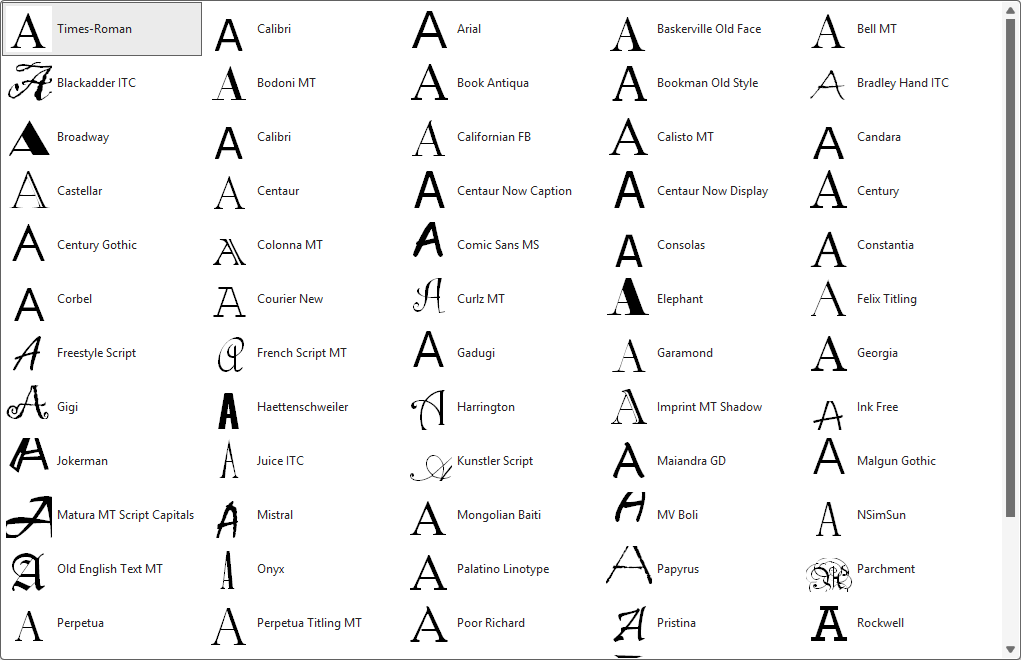
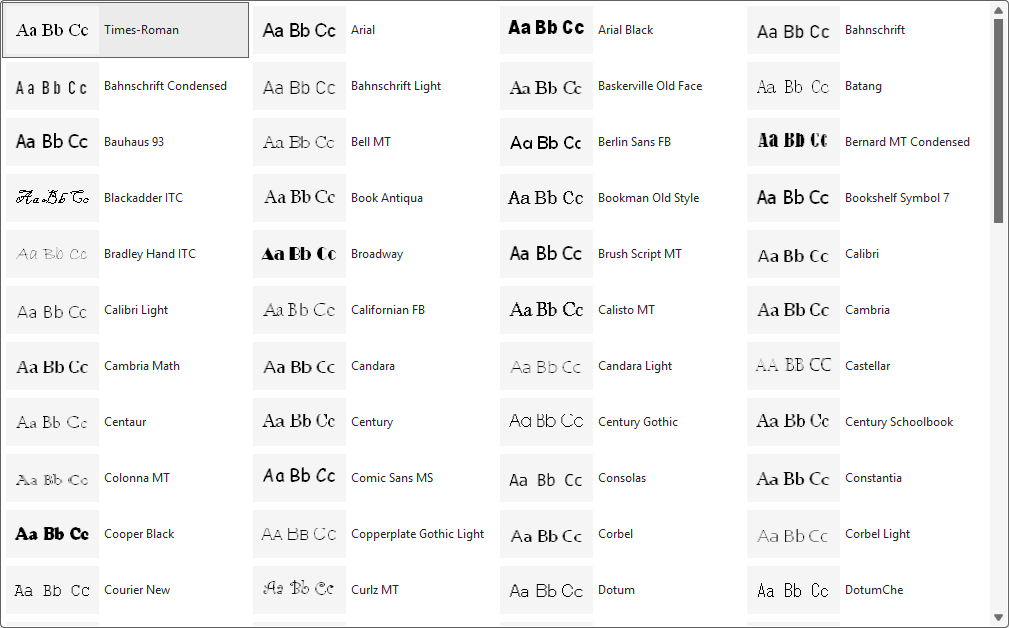
Update font gallery to v10 style

diff --git a/docs/designer/README.md b/docs/designer/README.md
@@ -285,7 +285,7 @@ The **Style Designer** font drop‑downs present a gallery of fonts that Graphvi
 - **Windows** → The list is derived from the fonts installed on your PC, filtered to remove fonts known to be incompatible with Graphviz.  
 - **macOS** → A static list of fonts is provided from the **lists** worksheet.
 
-When the **Font Name** drop‑down is selected for the first time, Graphviz generates a preview image of the letter **A** using the chosen font.  
+When the **Font Name** drop‑down is selected for the first time, Graphviz generates a preview image of the letters **Aa Bb Cc** for each font.  
 
 These preview images are cached for future use. You may notice a slight delay the first time as the cache is built, but subsequent displays occur quickly.
 
@@ -301,7 +301,7 @@ The currently selected font name is highlighted in the gallery.
 When you choose a font (e.g., `Comic Sans MS`):
 
 - The **Font Name** caption on the drop‑down changes to the selected font.  
-- An icon of the font appears in the ribbon to the left of the **Font Name**.  
+- An icon of the letter **A** in the font appears in the ribbon to the left of the **Font Name**.  
 - The font name is added as an attribute in the **Format String**.  
 - A new preview image is generated, showing the associated labels rendered in the chosen font.
 
